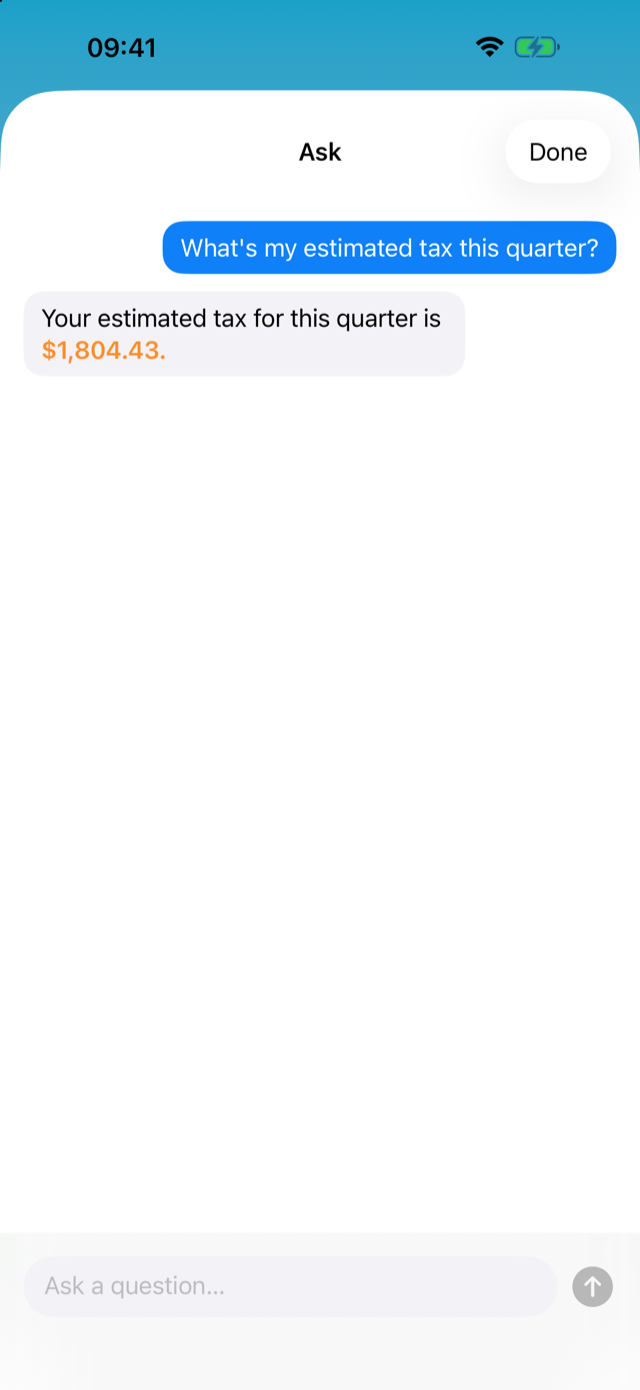
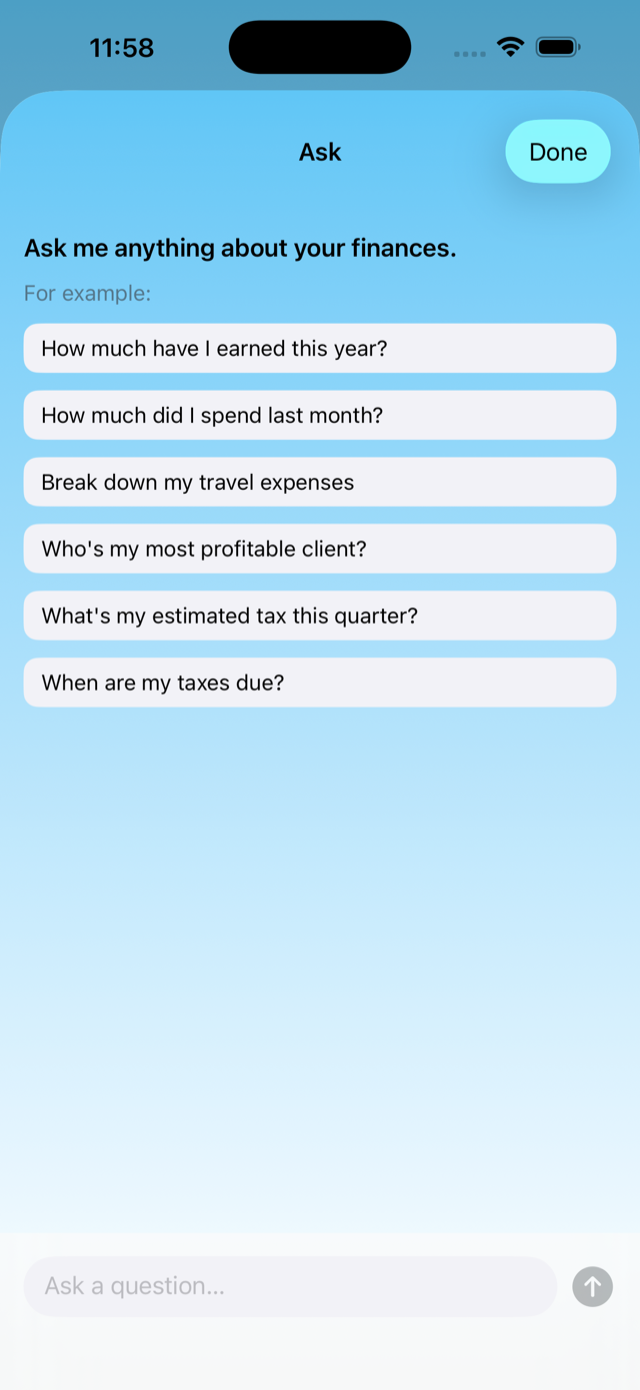
Refresh screenshots + SEO pass (canonical, OG/Twitter, JSON-LD, sitemap)
- Update dashboard, Set Aside, and AI screenshots to the v1.2 versions.
- Fix Lifetime price $59.99 -> $39.99 in meta description and pricing note.
- Add a real 1200x630 OG share image (was a tiny relative-path icon).
- Absolute OG URLs + og:url/site_name/image dimensions; Twitter summary_large_image.
- Add canonical links, JSON-LD SoftwareApplication with offers, theme-color.
- Add robots.txt and sitemap.xml.
- Lazy-load + intrinsic dimensions on screenshots for Core Web Vitals.

diff --git a/index.html b/index.html
@@ -13,15 +13,48 @@
 
   <!-- SEO basics: the title + description are what Google and link previews show -->
   <title>Freelance Flow: Know exactly what to set aside for taxes</title>
-  <meta name="description" content="Freelance Flow is a private, on-device income & expense tracker for freelancers. It tells you exactly how much to set aside for taxes every month. Try it free for 7 days, then $4.99/mo, $29.99/yr, or buy once for $59.99 — no account required." />
+  <meta name="description" content="Freelance Flow is a private, on-device income & expense tracker for freelancers. It tells you exactly how much to set aside for taxes every month. Try it free for 7 days, then $4.99/mo, $29.99/yr, or buy once for $39.99 — no account required." />
+  <meta name="theme-color" content="#0f80f8" />
+  <link rel="canonical" href="https://ryansan2001-source.github.io/freelance-flow-site/" />
 
   <!-- Social share preview (when the link is pasted into iMessage, Reddit, etc.) -->
   <meta property="og:title" content="Freelance Flow: Know exactly what to set aside for taxes" />
   <meta property="og:description" content="A private, on-device tracker for freelancers. Log income and expenses, and know your tax set-aside every month. Free 7-day trial." />
-  <meta property="og:image" content="assets/icon.png" />
+  <meta property="og:image" content="https://ryansan2001-source.github.io/freelance-flow-site/assets/og-image.png" />
+  <meta property="og:image:width" content="1200" />
+  <meta property="og:image:height" content="630" />
+  <meta property="og:image:alt" content="Freelance Flow — know exactly what to set aside for taxes" />
   <meta property="og:type" content="website" />
+  <meta property="og:url" content="https://ryansan2001-source.github.io/freelance-flow-site/" />
+  <meta property="og:site_name" content="Freelance Flow" />
+
+  <!-- Twitter/X card -->
+  <meta name="twitter:card" content="summary_large_image" />
+  <meta name="twitter:title" content="Freelance Flow: Know exactly what to set aside for taxes" />
+  <meta name="twitter:description" content="A private, on-device tracker for freelancers. Log income and expenses, and know your tax set-aside every month. Free 7-day trial." />
+  <meta name="twitter:image" content="https://ryansan2001-source.github.io/freelance-flow-site/assets/og-image.png" />
 
   <link rel="icon" href="assets/icon.png" />
+
+  <!-- Structured data: helps Google understand this is an iOS app + its pricing -->
+  <script type="application/ld+json">
+  {
+    "@context": "https://schema.org",
+    "@type": "SoftwareApplication",
+    "name": "Freelance Flow",
+    "applicationCategory": "FinanceApplication",
+    "operatingSystem": "iOS 18.0 or later",
+    "description": "A private, on-device income & expense tracker for freelancers and 1099 contractors that tells you exactly how much to set aside for taxes each month.",
+    "url": "https://ryansan2001-source.github.io/freelance-flow-site/",
+    "image": "https://ryansan2001-source.github.io/freelance-flow-site/assets/og-image.png",
+    "downloadUrl": "https://apps.apple.com/us/app/freelance-flow-tax-income/id6787905548",
+    "offers": [
+      { "@type": "Offer", "price": "4.99", "priceCurrency": "USD", "description": "Monthly subscription (after a 7-day free trial)" },
+      { "@type": "Offer", "price": "29.99", "priceCurrency": "USD", "description": "Annual subscription (after a 7-day free trial)" },
+      { "@type": "Offer", "price": "39.99", "priceCurrency": "USD", "description": "Lifetime — one-time purchase, no subscription" }
+    ]
+  }
+  </script>
 
   <style>
     /* ---- Colour + type tokens (pulled straight from the app's asset catalog) ---- */
@@ -232,19 +265,19 @@
       </div>
       <div class="shots-row">
         <div class="shot">
-          <img src="assets/screen-dashboard.png" alt="This Month dashboard: income, estimated tax, expenses, and take-home" />
+          <img src="assets/screen-dashboard.png" width="640" height="1390" loading="lazy" decoding="async" alt="This Month dashboard: income, estimated tax, expenses, and take-home" />
           <p>This month's income, tax, and real take-home — at a glance.</p>
         </div>
         <div class="shot">
-          <img src="assets/screen-ai.png" alt="Ask your finances: an on-device assistant answering 'What's my estimated tax this quarter?'" />
+          <img src="assets/screen-ai.png" width="640" height="1390" loading="lazy" decoding="async" alt="Ask your finances: an on-device assistant answering 'What's my estimated tax this quarter?'" />
           <p>Ask a question, get a straight answer — entirely on-device.</p>
         </div>
         <div class="shot">
-          <img src="assets/screen-setaside.png" alt="Set Aside screen with the amount to transfer and a tax-rate slider" />
+          <img src="assets/screen-setaside.png" width="640" height="1390" loading="lazy" decoding="async" alt="Set Aside screen with the amount to transfer and a tax-rate slider" />
           <p>Know the exact amount to set aside for taxes right now.</p>
         </div>
         <div class="shot">
-          <img src="assets/screen-taxsummary.png" alt="Tax Time summary by client and category with export options" />
+          <img src="assets/screen-taxsummary.png" width="640" height="1390" loading="lazy" decoding="async" alt="Tax Time summary by client and category with export options" />
           <p>A tax-time summary you can hand straight to your accountant.</p>
         </div>
       </div>
@@ -287,7 +320,7 @@
       <h2>Get Freelance Flow on the App Store</h2>
       <p>Log what you earn and spend, and know exactly what to set aside for taxes — private, on-device, no account.</p>
       <a class="btn" href="https://apps.apple.com/us/app/freelance-flow-tax-income/id6787905548">Download on the App Store</a>
-      <p class="pricing-note">Private · No account · Free 7-day trial, then $4.99/mo or $29.99/yr — or buy once for $59.99, no subscription ever.</p>
+      <p class="pricing-note">Private · No account · Free 7-day trial, then $4.99/mo or $29.99/yr — or buy once for $39.99, no subscription ever.</p>
       <div class="disclaimer" style="margin-top:34px">
         Freelance Flow gives you a rough tax-savings estimate — a common freelancer rule of thumb — not tax advice. Check with a qualified tax professional or tax software if you're unsure.
       </div>

diff --git a/support.html b/support.html
@@ -6,6 +6,16 @@
   <meta name="viewport" content="width=device-width, initial-scale=1.0" />
   <title>Freelance Flow: Support</title>
   <meta name="description" content="Help and support for Freelance Flow, the private tax-savings tracker for freelancers. Contact, FAQ, and privacy." />
+  <meta name="theme-color" content="#0f80f8" />
+  <link rel="canonical" href="https://ryansan2001-source.github.io/freelance-flow-site/support.html" />
+  <meta property="og:title" content="Freelance Flow: Support" />
+  <meta property="og:description" content="Help and support for Freelance Flow, the private tax-savings tracker for freelancers. Contact, FAQ, and privacy." />
+  <meta property="og:image" content="https://ryansan2001-source.github.io/freelance-flow-site/assets/og-image.png" />
+  <meta property="og:type" content="website" />
+  <meta property="og:url" content="https://ryansan2001-source.github.io/freelance-flow-site/support.html" />
+  <meta property="og:site_name" content="Freelance Flow" />
+  <meta name="twitter:card" content="summary_large_image" />
+  <meta name="twitter:image" content="https://ryansan2001-source.github.io/freelance-flow-site/assets/og-image.png" />
   <link rel="icon" href="assets/icon.png" />
   <style>
     :root{
